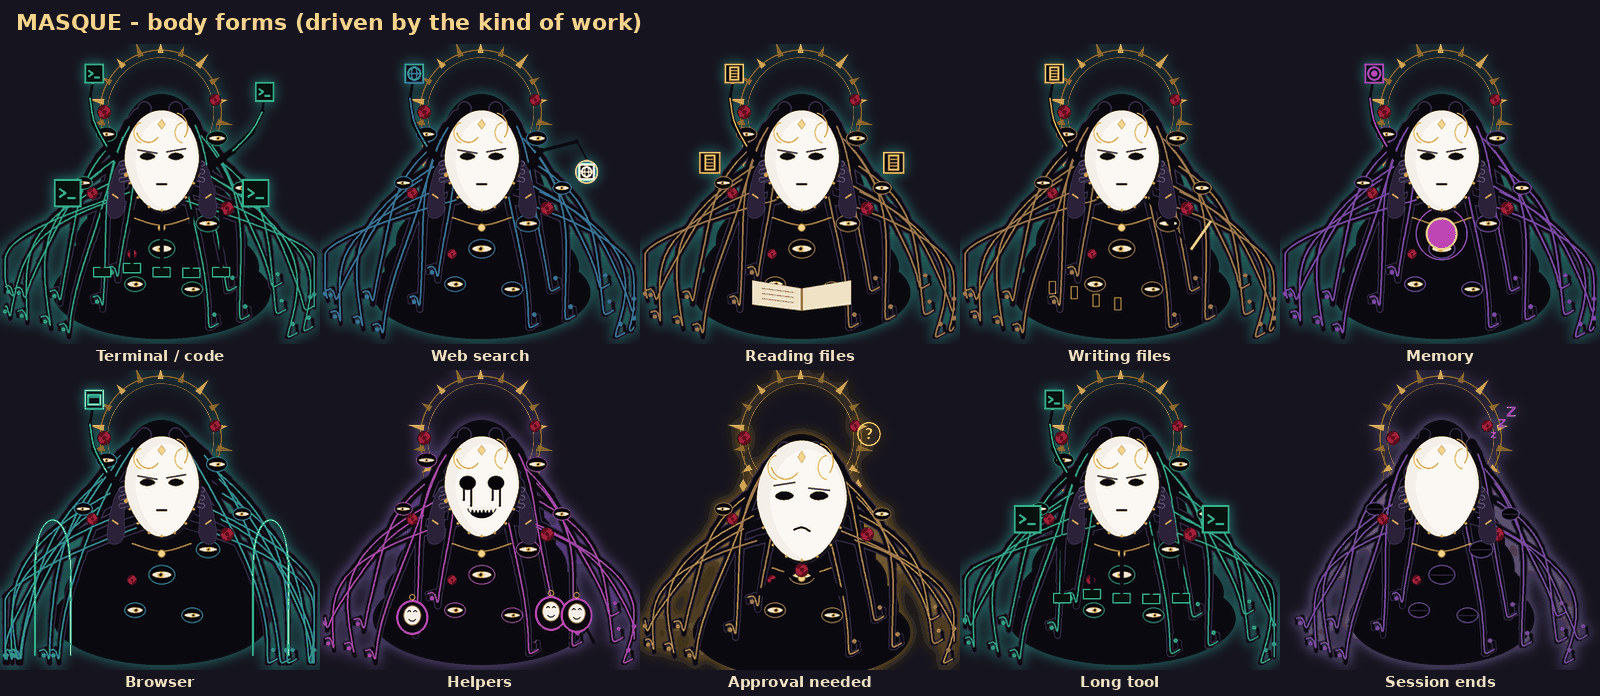
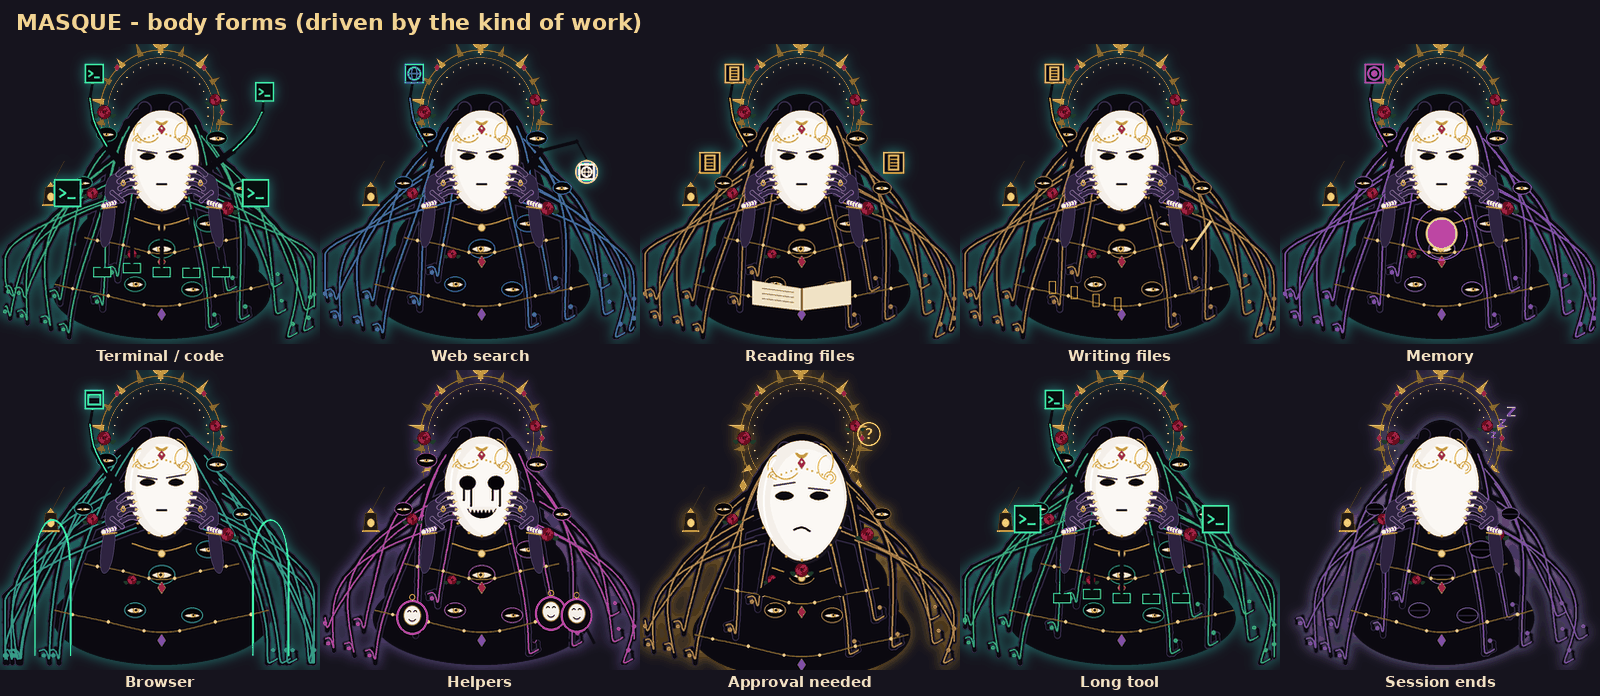
Masque detail pass: richer mask, gloved hands, halo, chains, lantern, perch window
- Mask: crescent moon and ruby on the brow, temple curls, dotted brow line,
  porcelain sheen; look up/down now slides the features and shades the chin
  or brow.
- Hands: slender gloved hands with lace cuffs, four gold-tipped fingers, a
  thumb and a ring, drawn over the mask's cheeks so they're always visible.
- Body: eyes get a limbal ring, lid line and lashes; gold chains with pendants
  drape across the mane; a lantern hangs on a tendril; roses have leaves.
- Halo: dotted inner ring, gems at the quarters, a crescent moon on top.
- Window perch: a real window behind her (title bar, buttons, content), with
  tendrils curled over its edge.

Claude-Session: https://claude.ai/code/session_01PQo4QqTtKQd9uCasapaCKQ

diff --git a/hermes_companion/animation/masque.py b/hermes_companion/animation/masque.py
@@ -316,14 +316,30 @@ def _eye(canvas, x, y, r, openness, iris=EYE_IRIS, look=(0.0, 0.0)):
                           fill="#f0e6d2", outline=GOLD_DK, smooth=True)
     ir = min(r * 0.5, h * 0.95)
     ix, iy = x + look[0] * r * 0.35, y + look[1] * h * 0.3
+    canvas.create_oval(ix - ir * 1.12, iy - ir * 1.12, ix + ir * 1.12, iy + ir * 1.12,
+                       fill="#7a4a12", outline="")                       # dark limbal ring
     canvas.create_oval(ix - ir, iy - ir, ix + ir, iy + ir, fill=iris, outline="")
+    canvas.create_oval(ix - ir * 0.75, iy - ir * 0.75, ix + ir * 0.75, iy + ir * 0.75,
+                       outline="#f7d27a", width=0.6)
     canvas.create_oval(ix - ir * 0.45, iy - ir * 0.45, ix + ir * 0.45, iy + ir * 0.45,
                        fill="#140b06", outline="")
     canvas.create_oval(ix - ir * 0.6, iy - ir * 0.75, ix - ir * 0.2, iy - ir * 0.35,
                        fill="white", outline="")
+    canvas.create_line(x - r, y, x - r * 0.4, y - h, x + r * 0.4, y - h, x + r, y,
+                       fill="#050307", width=1.6, smooth=True)          # upper lid line
+    if r >= 5:
+        for i in range(3):                                               # lashes
+            lx = x - r * 0.45 + i * r * 0.45
+            canvas.create_line(lx, y - h, lx + (i - 1) * r * 0.18, y - h - r * 0.35,
+                               fill="#050307", width=1.2)
 
 
-def _rose(canvas, x, y, r, bloom=1.0):
+def _rose(canvas, x, y, r, bloom=1.0, leaves=True):
+    if leaves:
+        for k in (-1, 1):
+            canvas.create_polygon(x + k * r * 0.6, y + r * 0.4, x + k * r * 1.9, y + r * 0.2,
+                                  x + k * r * 1.2, y + r * 1.1, fill="#1f3a22", outline="#2f5a34",
+                                  smooth=True)
     canvas.create_oval(x - r, y - r, x + r, y + r, fill=ROSE, outline="#3a0610")
     for i in range(5):
         a = i * 1.2566
@@ -390,9 +406,16 @@ def _mask_outline(x, y, w, h):
     return pts
 
 
-def draw_mask(canvas, x, y, w, h, face, cracks=0, tilt=0.0, teeth=True, lace=True, p=0.0):
-    """The porcelain mask. (x, y) is its centre; w/h half-sizes."""
+def draw_mask(canvas, x, y, w, h, face, cracks=0, tilt=0.0, teeth=True, lace=True, p=0.0,
+              vy=0.0):
+    """The porcelain mask. (x, y) is its centre; w/h half-sizes.
+
+    ``tilt`` turns it sideways (features slide toward the facing side) and
+    ``vy`` tips it up (-1) or down (+1): features slide and a shadow falls
+    under the brow or the chin.
+    """
     sx = math.sin(tilt) * w * 0.25                      # slip/turn shifts the features
+    fy = vy * h * 0.16                                  # look up/down shifts them vertically
     canvas.create_polygon(*_mask_outline(x + 2, y + 3, w, h), fill="#1a1520", outline="",
                           smooth=True)
     canvas.create_polygon(*_mask_outline(x, y, w, h), fill=PORCELAIN, outline=GOLD_DK, smooth=True)
@@ -405,8 +428,33 @@ def draw_mask(canvas, x, y, w, h, face, cracks=0, tilt=0.0, teeth=True, lace=Tru
                           outline=GOLD, width=1.5)
         canvas.create_arc(x + k * w * 0.55 - w * 0.2, y - h * 0.75, x + k * w * 0.55 + w * 0.2,
                           y - h * 0.35, start=90, extent=180 * k, style="arc", outline=GOLD, width=1)
-    canvas.create_polygon(x, y - h * 0.82, x + 4, y - h * 0.72, x, y - h * 0.62, x - 4, y - h * 0.72,
-                          fill=GOLD_HI, outline=GOLD_DK)
+    # porcelain sheen down one cheek, and the shadow of the tip
+    canvas.create_arc(x - w * 0.85, y - h * 0.8, x + w * 0.2, y + h * 0.8, start=120, extent=110,
+                      style="arc", outline="#ffffff", width=2)
+    if vy < -0.2:                                       # looking up: the chin falls into shadow
+        canvas.create_arc(x - w * 0.8, y + h * 0.2, x + w * 0.8, y + h * 1.05, start=200, extent=140,
+                          style="chord", fill=PORCELAIN_SH, outline="")
+    elif vy > 0.2:                                      # looking down: the brow shades the eyes
+        canvas.create_arc(x - w * 0.85, y - h * 1.0, x + w * 0.85, y - h * 0.1, start=20, extent=140,
+                          style="chord", fill=PORCELAIN_SH, outline="")
+    # temple curls and a dotted brow line
+    for k in (-1, 1):
+        cxk, cyk = x + k * w * 0.62, y - h * 0.38
+        for rr in (6, 3.5):
+            canvas.create_arc(cxk - rr, cyk - rr, cxk + rr, cyk + rr, start=90 if k < 0 else -90,
+                              extent=270 * k, style="arc", outline=GOLD, width=1)
+        for i in range(5):
+            bx = x + k * w * (0.12 + 0.11 * i)
+            by = y - h * (0.52 - 0.03 * i)
+            canvas.create_oval(bx - 0.9, by - 0.9, bx + 0.9, by + 0.9, fill=GOLD, outline="")
+    # crescent moon and gem on the brow
+    canvas.create_arc(x - 7, y - h * 0.98, x + 7, y - h * 0.7, start=200, extent=140, style="chord",
+                      fill=GOLD, outline="")
+    canvas.create_arc(x - 6, y - h * 1.02, x + 6, y - h * 0.76, start=200, extent=140, style="chord",
+                      fill="#fbf8f4", outline="")
+    canvas.create_polygon(x, y - h * 0.72, x + 4, y - h * 0.62, x, y - h * 0.52, x - 4, y - h * 0.62,
+                          fill="#c0304a", outline=GOLD_DK)
+    canvas.create_oval(x - 1, y - h * 0.66, x + 1, y - h * 0.62, fill="#ffd0d8", outline="")
     if lace:
         for i in range(7):
             a = math.pi * (0.15 + 0.7 * i / 6)
@@ -414,8 +462,8 @@ def draw_mask(canvas, x, y, w, h, face, cracks=0, tilt=0.0, teeth=True, lace=Tru
                                x - math.cos(a) * w * 0.95 + 1.2, y + math.sin(a) * h * 0.98 + 1.2,
                                fill=GOLD, outline="")
 
-    ex, ey, er = w * 0.38, y - h * 0.08, w * 0.24          # eye spacing / height / size
-    mx, my = x + sx, y + h * 0.42                           # mouth centre
+    ex, ey, er = w * 0.38, y - h * 0.08 + fy, w * 0.24     # eye spacing / height / size
+    mx, my = x + sx, y + h * 0.42 + fy * 0.8                # mouth centre
     L, R = (x - ex + sx, ey), (x + ex + sx, ey)
 
     def lids(shape):
@@ -649,6 +697,10 @@ def draw_masque(canvas, pose: str, progress: float = 0.0, palette: str | None = 
     if "lookup" in fx or "lookdown" in fx:
         mh *= 0.9                                            # foreshortened as it tips
 
+    # 0. a real window to sit on (behind everything else)
+    if "perch" in fx:
+        _window(canvas, PERCH_TOP)
+
     # 1. thorn halo
     hx, hy = CX + sway * 0.2, 70 + hover
     spin = p * (2 * math.pi if "halo" in fx else 0.6)
@@ -663,6 +715,22 @@ def draw_masque(canvas, pose: str, progress: float = 0.0, palette: str | None = 
                               hx + math.cos(a) * r1, hy + math.sin(a) * r1,
                               hx + math.cos(a + 0.06) * r0, hy + math.sin(a + 0.06) * r0,
                               fill=GOLD if i % 2 else GOLD_DK, outline="")
+    for i in range(36):                                      # dotted inner ring
+        a = -spin * 0.5 + i * math.pi / 18
+        if math.sin(a) > 0.6:
+            continue
+        canvas.create_oval(hx + math.cos(a) * 48 - 0.9, hy + math.sin(a) * 48 - 0.9,
+                           hx + math.cos(a) * 48 + 0.9, hy + math.sin(a) * 48 + 0.9,
+                           fill=GOLD_HI, outline="")
+    for a in (math.pi, -math.pi / 4, -3 * math.pi / 4, 0.0):  # gems at the quarters
+        gx, gy = hx + math.cos(a) * 62, hy + math.sin(a) * 62
+        canvas.create_polygon(gx, gy - 4, gx + 3, gy, gx, gy + 4, gx - 3, gy, fill="#9b2c4a",
+                              outline=GOLD_HI)
+    canvas.create_arc(hx - 10, hy - 84, hx + 10, hy - 62, start=200, extent=140, style="chord",
+                      fill=GOLD, outline=GOLD_DK)                # crescent moon crowning the halo
+    canvas.create_arc(hx - 9, hy - 88, hx + 9, hy - 67, start=200, extent=140, style="chord",
+                      fill="#160f1f", outline="")
+    canvas.create_line(hx, hy - 62, hx, hy - 56, fill=GOLD, width=2)
     for k in (-1, 1):                                        # dangling gold charms
         canvas.create_line(hx + k * 56, hy + 10, hx + k * 58, hy + 40, fill=GOLD_DK, width=1)
         canvas.create_polygon(hx + k * 58, hy + 40, hx + k * 62, hy + 47, hx + k * 58, hy + 54,
@@ -709,6 +777,31 @@ def draw_masque(canvas, pose: str, progress: float = 0.0, palette: str | None = 
                            fill="#050307", outline=tint, width=1)
         _eye(canvas, ex, ey, r * 1.15, opn, look=look)
 
+    # 4a. gold chains draped across the mane, and a lantern on a tendril
+    if not back:
+        for row, (y0, sag) in enumerate(((mcy + mh + 24, 16), (mcy + mh + 70, 22))):
+            span = (78 + 30 * row) * size
+            pts = []
+            for j in range(13):
+                t = j / 12
+                pts.append((mcx - span + 2 * span * t, y0 + sag * math.sin(t * math.pi)
+                            + 2 * math.sin(p * 2 * math.pi + j)))
+            flat = [c for q in pts for c in q]
+            canvas.create_line(*flat, fill=GOLD_DK, width=1.4, smooth=True)
+            for j in range(1, 12, 2):
+                bx, by = pts[j]
+                canvas.create_oval(bx - 1.6, by - 1.6, bx + 1.6, by + 1.6, fill=GOLD_HI, outline="")
+            mx_, my_ = pts[6]                                # a pendant at the lowest point
+            canvas.create_polygon(mx_, my_ + 2, mx_ + 4, my_ + 8, mx_, my_ + 14, mx_ - 4, my_ + 8,
+                                  fill="#7a3fd1" if row else "#c0304a", outline=GOLD_HI)
+    lx_, ly_ = mcx - 112 * size, 150 + 4 * osc                # the lantern from the sheet
+    canvas.create_line(lx_ + 14, 118, lx_, ly_ - 10, fill=GOLD_DK, width=1)
+    canvas.create_polygon(lx_ - 6, ly_ - 10, lx_ + 6, ly_ - 10, lx_ + 8, ly_ + 8, lx_ - 8, ly_ + 8,
+                          fill="#2a1d0a", outline=GOLD)
+    canvas.create_oval(lx_ - 3.5, ly_ - 4, lx_ + 3.5, ly_ + 4, fill="#ffcf6b", outline="")
+    canvas.create_line(lx_ - 9, ly_ + 8, lx_ + 9, ly_ + 8, fill=GOLD, width=2)
+    canvas.create_polygon(lx_ - 4, ly_ - 10, lx_, ly_ - 15, lx_ + 4, ly_ - 10, fill=GOLD, outline="")
+
     # 4. roses + jewels
     for (dx, dy, r) in ((-58, 70, 7), (54, 58, 6), (-70, 150, 6), (66, 165, 7), (-30, 210, 5)):
         _rose(canvas, mcx + dx * size, dy + hover * 0.5, r * (1.3 if "roses" in fx else 1.0),
@@ -733,22 +826,13 @@ def draw_masque(canvas, pose: str, progress: float = 0.0, palette: str | None = 
         glyph(canvas, gl, min(max(tip[0], 14), FRAME[0] - 14), max(tip[1], 14), 10, colour)
 
     # 7. hands holding the mask (delicate, gold rings)
+    hands_later: list = []                                   # drawn over the mask's edges
     if back:
         pass                                                 # seen from behind: no hands, no face
     elif "slip" not in fx and form != "lean":
         for k in ((-1, 1) if turn < 0.55 else ((1,) if facing > 0 else (-1,))):
-            hx_, hy_ = mcx + facing * mw * 0.5 + k * (mw * (1 - 0.5 * turn) + 4), mcy + mh * 0.3
-            canvas.create_polygon(hx_ + k * 16, hy_ + 44, hx_ + k * 8, hy_ - 2, hx_ - k * 2, hy_ - 18,
-                                  hx_ - k * 9, hy_ - 10, hx_ - k * 3, hy_ + 8, hx_ - k * 6, hy_ + 40,
-                                  fill="#2b2138", outline="#6b5585", smooth=True)
-            for f in range(3):
-                fx0, fy0 = hx_ - k * 1, hy_ - 12 + f * 8
-                fx1, fy1 = hx_ - k * (14 + 2 * f), hy_ - 18 + f * 9
-                canvas.create_line(fx0, fy0, fx1, fy1, fill="#6b5585", width=5, capstyle="round")
-                canvas.create_line(fx0, fy0, fx1, fy1, fill="#2b2138", width=3.2, capstyle="round")
-                canvas.create_oval(fx1 - 1.6, fy1 - 1.6, fx1 + 1.6, fy1 + 1.6, fill=GOLD, outline="")
-            canvas.create_line(hx_ + k * 8, hy_ + 18, hx_ + k * 2, hy_ + 22, fill=GOLD, width=2)  # bracelet
-            canvas.create_oval(hx_ - k * 6 - 2, hy_ - 3, hx_ - k * 6 + 2, hy_ + 1, fill=GOLD, outline="")
+            hx_, hy_ = mcx + facing * mw * 0.5 + k * (mw * (1 - 0.5 * turn) + 8), mcy + mh * 0.55
+            hands_later.append((hx_, hy_, k))
     elif form == "lean":                                      # hands together, hopeful
         for k in (-1, 1):
             canvas.create_line(mcx + k * 40, mcy + mh + 30, mcx + k * 8, mcy + mh + 8,
@@ -764,9 +848,9 @@ def draw_masque(canvas, pose: str, progress: float = 0.0, palette: str | None = 
     if "swap" in fx and 0.4 < p < 0.6:
         face = "blank"
     if "lookup" in fx:
-        my_off -= 6
+        my_off -= 10
     if "lookdown" in fx:
-        my_off += 8
+        my_off += 12
     if "wake" in fx and p < 0.5:
         face = "blank"
     if back:
@@ -774,17 +858,55 @@ def draw_masque(canvas, pose: str, progress: float = 0.0, palette: str | None = 
     else:
         mw_eff = mw * (1.0 - 0.5 * turn)
         mx = mcx + mx_off + facing * mw * 0.5
+        vy = -1.0 if "lookup" in fx else 1.0 if "lookdown" in fx else 0.0
         draw_mask(canvas, mx, mcy + my_off, mw_eff, mh, face, cracks=st.cracks,
-                  tilt=tilt + facing * 1.1, teeth=teeth, lace=lace, p=p)
+                  tilt=tilt + facing * 1.1, teeth=teeth, lace=lace, p=p, vy=vy)
         if turn > 0.7:                                       # profile: brow and nose ridge
             sgn = 1 if facing > 0 else -1
             ex_ = mx + sgn * mw_eff
             canvas.create_polygon(ex_ - sgn * 2, mcy + my_off - mh * 0.15, ex_ + sgn * 6, mcy + my_off + mh * 0.05,
                                   ex_ - sgn * 2, mcy + my_off + mh * 0.2, fill=PORCELAIN, outline=GOLD_DK)
 
+    for hx_, hy_, k in hands_later:                          # fingers curl over the mask's edge
+        _hand(canvas, hx_, hy_, k, p)
+
     # 9. front effects
     _effects(canvas, fx, form, mcx, mcy, mw, mh, p, osc, colour, st, pose)
     _move_effects(canvas, fx, mcx, mcy, mw, mh, p, osc, colour)
+
+
+GLOVE, GLOVE_EDGE = "#2e2340", "#8a74a8"
+
+
+def _hand(canvas, x, y, k, p):
+    """A slender gloved hand cupping the mask's cheek: lace cuff, gold nails, a ring."""
+    # forearm sleeve rising from the mane
+    canvas.create_polygon(x + k * 18, y + 58, x + k * 6, y + 58, x - k * 1, y + 14, x + k * 12, y + 10,
+                          fill=GLOVE, outline=GLOVE_EDGE, smooth=True)
+    # lace cuff: a scalloped band with pearls
+    for i in range(5):
+        cx_, cy_ = x + k * (2 + i * 2.6), y + 14 + i * 0.8
+        canvas.create_oval(cx_ - 3, cy_ - 3, cx_ + 3, cy_ + 3, fill="#e9e1f2", outline=GLOVE_EDGE)
+    canvas.create_line(x - k * 1, y + 18, x + k * 14, y + 20, fill=GOLD, width=1.6)
+    # palm against the mask's cheek
+    canvas.create_polygon(x + k * 10, y + 14, x - k * 4, y + 10, x - k * 8, y - 4, x - k * 2, y - 16,
+                          x + k * 8, y - 12, x + k * 12, y + 2, fill=GLOVE, outline=GLOVE_EDGE, smooth=True)
+    # four long fingers curving over the mask's edge, gold-tipped
+    for f in range(4):
+        bx, by = x - k * (2 + f), y - 14 + f * 7
+        tx, ty = x - k * (15 + 2 * f), y - 22 + f * 9 + 1.5 * math.sin(p * 6 + f)
+        canvas.create_line(bx, by, (bx + tx) / 2 - k * 1, (by + ty) / 2 - 3, tx, ty,
+                           fill=GLOVE_EDGE, width=5.2, smooth=True, capstyle="round")
+        canvas.create_line(bx, by, (bx + tx) / 2 - k * 1, (by + ty) / 2 - 3, tx, ty,
+                           fill=GLOVE, width=3.6, smooth=True, capstyle="round")
+        canvas.create_polygon(tx, ty - 1.6, tx - k * 4.5, ty - 0.5, tx, ty + 1.6, fill=GOLD_HI,
+                              outline="")
+    # thumb and a ring with a stone
+    canvas.create_line(x + k * 4, y + 4, x - k * 6, y + 12, fill=GLOVE_EDGE, width=5, capstyle="round")
+    canvas.create_line(x + k * 4, y + 4, x - k * 6, y + 12, fill=GLOVE, width=3.4, capstyle="round")
+    rx_, ry_ = x - k * 7, y - 5
+    canvas.create_oval(rx_ - 2.6, ry_ - 2.6, rx_ + 2.6, ry_ + 2.6, outline=GOLD, width=1.4)
+    canvas.create_oval(rx_ - 1.4, ry_ - 3.6, rx_ + 1.4, ry_ - 0.8, fill="#c0304a", outline=GOLD_HI)
 
 
 def _back_of_head(canvas, x, y, w, h, p, tint):
@@ -808,6 +930,21 @@ def _back_of_head(canvas, x, y, w, h, p, tint):
     canvas.create_oval(x - 4, y - h * 0.15 - 4, x + 4, y - h * 0.15 + 4, fill=GOLD_HI, outline=GOLD_DK)
 
 
+PERCH_TOP = 232
+
+
+def _window(canvas, top):
+    """The window Masque perches on: title bar, buttons, a glimpse of its content."""
+    canvas.create_rectangle(6, top, 314, FRAME[1], fill="#141a28", outline="#6a7dab", width=2)
+    canvas.create_rectangle(6, top, 314, top + 22, fill="#2d3a58", outline="#6a7dab", width=2)
+    canvas.create_text(58, top + 11, text="Hermes", fill="#d6def5", font=("Segoe UI", 8, "bold"))
+    for i, col in enumerate(("#e0b84a", "#57b86b", "#d65a5a")):     # min / max / close
+        bx = 262 + i * 17
+        canvas.create_oval(bx - 5, top + 6, bx + 5, top + 16, fill=col, outline="")
+    for i in range(3):                                        # lines of text in the window
+        canvas.create_line(20, top + 34 + i * 12, 150 - i * 30, top + 34 + i * 12, fill="#3c4a6e", width=3)
+
+
 def _move_effects(canvas, fx, x, y, w, h, p, osc, colour):
     """Extra visuals for the movement actions and special moves."""
     if "click" in fx:                                        # a ripple where you clicked
@@ -821,14 +958,14 @@ def _move_effects(canvas, fx, x, y, w, h, p, osc, colour):
         cx_, cy_ = x + 120 * math.sin(p * 2 * math.pi), 30
         canvas.create_polygon(cx_, cy_, cx_, cy_ + 14, cx_ + 4, cy_ + 10, cx_ + 9, cy_ + 10,
                               fill="#ffffff", outline="#111111")
-    if "perch" in fx:                                        # tendrils gripping a title bar
-        canvas.create_rectangle(20, FLOOR - 10, 300, FLOOR, fill="#2a3550", outline="#5d6f99")
-        for k in (-1, 1):
-            canvas.create_oval(300 - 30 - k * 0, FLOOR - 8, 300 - 24, FLOOR - 2, fill="#d65a5a", outline="")
-        for i in range(6):
-            gx = 70 + i * 36
-            canvas.create_arc(gx - 8, FLOOR - 18, gx + 8, FLOOR + 2, start=0, extent=200, style="arc",
-                              outline=INK, width=5)
+    if "perch" in fx:                                        # tendrils grip the title bar's edge
+        top = PERCH_TOP
+        for i in range(7):
+            gx = 66 + i * 30
+            canvas.create_arc(gx - 9, top - 8, gx + 9, top + 12, start=-30, extent=240, style="arc",
+                              outline=INK, width=6)
+            canvas.create_arc(gx - 9, top - 8, gx + 9, top + 12, start=-30, extent=240, style="arc",
+                              outline="#3a2d4d", width=1.4)
     if "angry" in fx:                                        # red pulse
         r = 120 + 10 * abs(osc)
         canvas.create_oval(x - r, y - r * 0.8, x + r, y + r * 1.2, outline="#ff3b3b", width=2)

diff --git a/hermes_companion/tests/test_masque.py b/hermes_companion/tests/test_masque.py
@@ -142,3 +142,31 @@ def test_every_sheet_move_renders():
         [c[1] for c in S.FORMS]
     for pose in poses:
         assert r.frame(pose, 0.35).getbbox() is not None, pose
+
+
+def test_look_up_and_down_move_the_face():
+    from hermes_companion.renderer.smooth import PILCanvas
+    imgs = {}
+    for vy in (-1.0, 0.0, 1.0):
+        c = PILCanvas(*M.FRAME)
+        M.draw_mask(c, 160, 118, 38, 50, "cute", vy=vy)
+        imgs[vy] = c.img.tobytes()
+    assert imgs[-1.0] != imgs[0.0] != imgs[1.0]
+
+
+def test_hands_are_drawn_over_the_mask_and_the_perch_has_a_window():
+    calls = []
+
+    class Rec:
+        def delete(self, *a):
+            pass
+
+        def __getattr__(self, name):
+            return lambda *a, **k: calls.append((name, k.get("fill"), k.get("outline")))
+    M.draw_masque(Rec(), "idle_bob", 0.2)
+    mask = max(i for i, c in enumerate(calls) if c[1] == M.PORCELAIN)
+    glove = [i for i, c in enumerate(calls) if c[1] == M.GLOVE]
+    assert glove and min(glove) > mask                  # fingers rest over the mask's edge
+    calls.clear()
+    M.draw_masque(Rec(), "window_perch", 0.3)
+    assert ("create_rectangle", "#2d3a58", "#6a7dab") in calls   # the title bar
